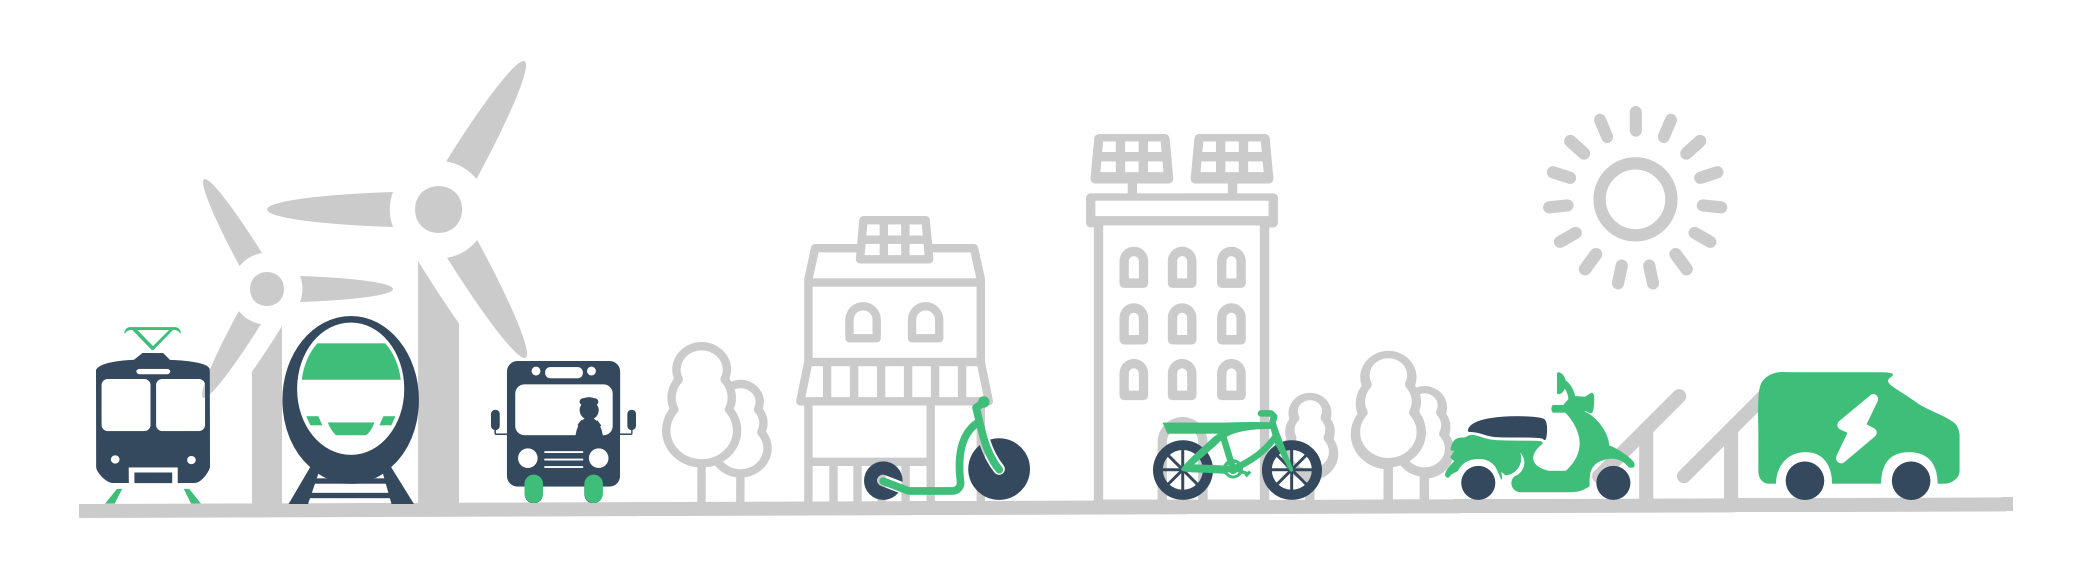
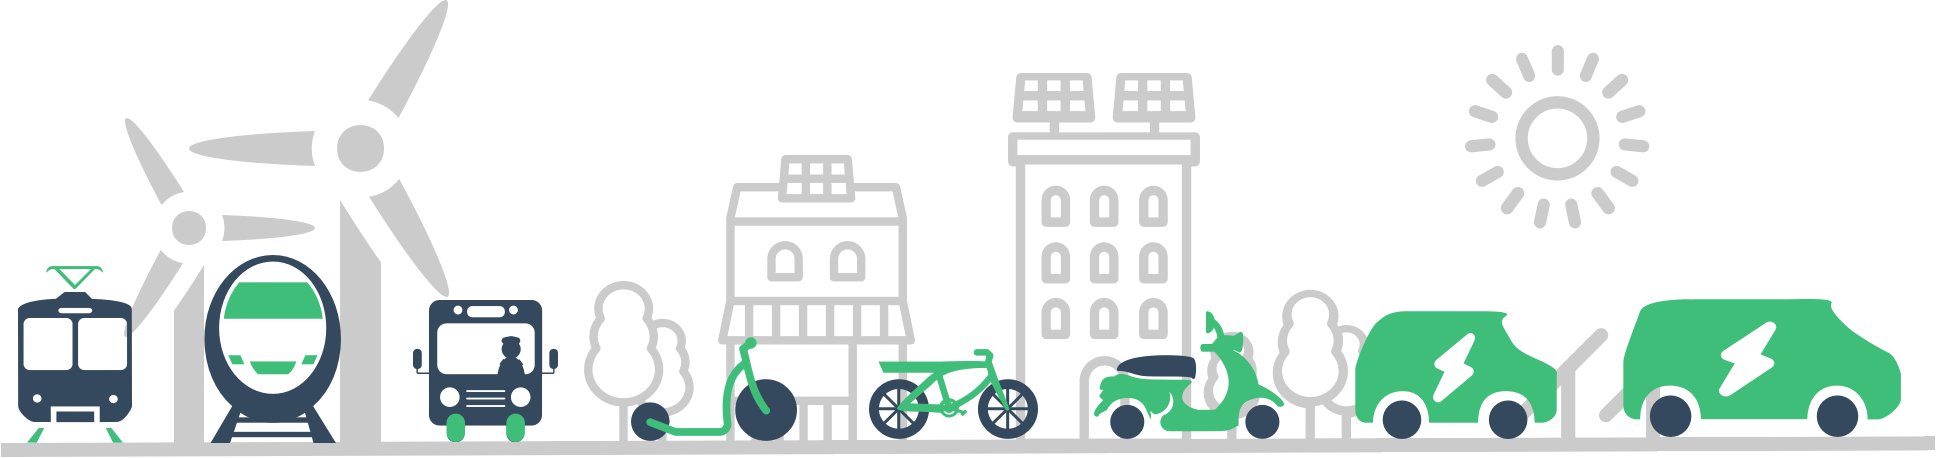
more compact and shorter pitch

Changed region(s): [[0.0, 0.0, 1.0, 1.0], [0.7128, 0.0917, 0.8678, 0.5197]]

diff --git a/components/OmoVision.vue b/components/OmoVision.vue
@@ -1,37 +1,28 @@
 <template>
   <div>
-    <!-- <div class="hero is-medium is-light">
+    <div class="hero is-medium">
       <div class="hero-body">
-        <div class="container has-text-centered">
+        <div class="has-text-centered">
           <div
             class="title is-size-1 is-size-1-tablet is-size-4-mobile"
             style="padding-bottom: 1rem"
-          >
-            THE VISION
-          </div>
+          >OUR VISION</div>
+          <img src="/banner.png" style="padding: 2rem" />
           <div
-            class="subtitle has-text-weight-medium is-size-2 is-size-4-tablet is-size-6-mobile has-text-dark"
-          >
-            jump on every
-            <b class="has-text-weight-semibold">e-bike</b>,
-            <b class="has-text-weight-semibold">e-scooter</b>,
-            <b class="has-text-weight-semibold">e-car</b> and
-            <b class="has-text-weight-semibold">any public transport</b> all
-            within one app and
-            <b class="has-text-weight-semibold">green flatrate</b>
-          </div>
+            class="subtitle has-text-weight-medium is-size-1 is-size-3-tablet is-size-5-mobile has-text-dark"
+          >leading earth into a new era of 100% sustainable sharing mobility</div>
         </div>
       </div>
-    </div>-->
-    <div class="section container">
-      <img src="/banner.png" />
     </div>
   </div>
 </template>
 
 <script lang="ts">
 import { Component, Vue } from "nuxt-property-decorator";
+import OmoVimeo from "@/components/OmoVimeo.vue";
 
-@Component({})
+@Component({
+  components: { OmoVimeo }
+})
 export default class OmoVision extends Vue {}
 </script>

diff --git a/components/OmoMission.vue b/components/OmoMission.vue
@@ -6,13 +6,10 @@
           <div
             class="title is-size-1 is-size-1-tablet is-size-4-mobile"
             style="padding-bottom: 1rem"
-          >THE MISSION</div>
+          >JOIN THE MOVEMENT</div>
           <div
             class="subtitle has-text-weight-medium is-size-2 is-size-4-tablet is-size-6-mobile has-text-dark"
-          >
-            greenfluence your city to become the global leader of a smart and
-            clean sharing movement
-          </div>
+          >and call together 1.000.000 citizens to become the leading greenfluencers of your city</div>
         </div>
       </div>
     </div>
@@ -34,18 +31,18 @@ import { Component, Vue } from "nuxt-property-decorator";
     return {
       items: [
         {
-          title: "1. GREENFLUENCE",
-          subtitle: "the vision and inspire your fellow citizens",
+          title: "1. SIGN UP",
+          subtitle: "to the movement and greenfluence your fellow citizens",
           icon: "invite"
         },
         {
-          title: "2. CROWDFUND",
-          subtitle: "and vote to unlock one mobility provider after another",
+          title: "2. PRE-BUY",
+          subtitle: "flatrate vouchers when we reach 1.000.000 greenfluencers",
           icon: "vote"
         },
         {
           title: "3. WIN",
-          subtitle: "your reward when we reach 1.000.000 pre-sales",
+          subtitle: "your rewards once we reach 1.000.000 pre-sales",
           icon: "win"
         }
       ]

diff --git a/components/OmoService.vue b/components/OmoService.vue
@@ -1,25 +1,16 @@
 <template>
   <div>
-    <div class="hero is-medium is-light">
-      <div class="hero-body">
-        <div class="has-text-centered">
-          <div
-            class="title is-size-1 is-size-1-tablet is-size-4-mobile"
-            style="padding-bottom: 1rem"
-          >
-            THE GOAL
-          </div>
-          <div
-            class="subtitle has-text-weight-medium is-size-2 is-size-4-tablet is-size-6-mobile has-text-dark"
-          >
-            enjoy the freedom to access, drive and leave any vehicle everywhere
-            in any city
-          </div>
-        </div>
+    <div class="hero is-medium">
+      <div class="section is-medium has-text-centered">
+        <div
+          class="title is-size-1 is-size-1-tablet is-size-4-mobile"
+          style="padding-bottom: 1rem"
+        >THE GOAL</div>
+        <div
+          class="subtitle has-text-weight-medium is-size-2 is-size-4-tablet is-size-6-mobile has-text-dark"
+        >enjoy the freedom to access, drive and leave any vehicle from any place in the world</div>
+        <img src="/iphone.png" width="80%" />
       </div>
-    </div>
-    <div class="section is-medium has-text-centered">
-      <img src="/iphone.png" width="80%" />
     </div>
   </div>
 </template>

diff --git a/components/OmoRewards.vue b/components/OmoRewards.vue
@@ -6,15 +6,12 @@
           <div
             class="title is-size-1 is-size-1-tablet is-size-4-mobile"
             style="padding-bottom: 1rem"
-          >GREENFLUENCER REWARDS</div>
+          >WIN GREENFLUENCER REWARDS</div>
           <div
             class="subtitle has-text-weight-medium is-size-2 is-size-4-tablet is-size-6-mobile has-text-dark"
-          >
-            when we reach 1.000.000 crowdinvestors you will unlock your
-            greenfluencer rewards *
-          </div>
-          <p div class="is-size-7">
-            *please check
+          >lifelong / 10 years / 1 year / 1 month / 1 week / 1 day FREE usage of any connected mobility sharing services *</div>
+          <p div class="is-size-6">
+            * please see
             <a href="/terms" style="color: blue">terms of service</a>
           </p>
         </div>

diff --git a/components/OmoHome.vue b/components/OmoHome.vue
@@ -16,12 +16,13 @@
         >imagine the exciting joy</h1>
 
         <div class="subtitle is-size-2 is-size-4-tablet is-size-6-mobile has-text-white">
-          of travelling any place in the world
-          by jumping on every sharing
+          of travelling the world with ease,
+          jumping on every sharing
           <br />
           <b class="has-text-weight-semibold">e-bike</b>,
           <b class="has-text-weight-semibold">e-scooter</b>,
-          <b class="has-text-weight-semibold">e-car</b> and
+          <b class="has-text-weight-semibold">e-car</b>,
+          <b class="has-text-weight-semibold">e-bus</b> and
           <b class="has-text-weight-semibold">any public transport</b>
           <br />all within
           <b class="has-text-weight-semibold">one</b> green

diff --git a/pages/index.vue b/pages/index.vue
@@ -3,10 +3,10 @@
     <OmoHome />
     <OmoVision />
     <OmoVimeo />
+    <OmoService />
     <OmoMission />
     <OmoRewards />
-    <OmoService />
-    <OmoFlatrates />
+    <!-- <OmoFlatrates /> -->
     <!-- <OmoTimeline /> -->
     <OmoWaitingList />
   </div>
@@ -23,7 +23,6 @@ import OmoService from "@/components/OmoService.vue";
 import OmoFlatrates from "@/components/OmoFlatrates.vue";
 import OmoTimeline from "@/components/OmoTimeline.vue";
 import OmoRewards from "@/components/OmoRewards.vue";
-
 import gql from "graphql-tag";
 import { mapMutations } from "vuex";
 const Cookie = process.client ? require("js-cookie") : undefined;

diff --git a/components/OmoWaitingList.vue b/components/OmoWaitingList.vue
@@ -1,6 +1,13 @@
 <template>
-  <div id="subscribe" class="section">
-    <div id="maitre-widget"></div>
+  <div id="subscribe" class="section is-medium has-text-centered">
+    <div
+      class="title is-size-1 is-size-1-tablet is-size-4-mobile"
+      style="padding-bottom: 1rem"
+    >YOUR MISSION</div>
+    <div
+      class="subtitle has-text-weight-medium is-size-2 is-size-4-tablet is-size-6-mobile has-text-dark"
+    >inspire 1.000.000 greenfluencer to bring motion.earth to life</div>
+    <div id="maitre-widget" style="padding-top: 3rem"></div>
   </div>
 </template>
 

diff --git a/components/OmoVimeo.vue b/components/OmoVimeo.vue
@@ -1,7 +1,7 @@
 <template>
   <iframe
     id="video"
-    src="https://player.vimeo.com/video/349289147"
+    src="https://player.vimeo.com/video/349313559"
     frameborder="0"
     webkitAllowFullScreen
     mozallowfullscreen
@@ -21,7 +21,7 @@ export default class OmoVimeo extends Vue {}
   display: flex;
   flex-grow: 1;
   width: 100%;
-  height: 80%;
+  height: 90%;
 }
 .vimeo iframe,
 .vimeo object,

diff --git a/layouts/OmoPanelBottom.vue b/layouts/OmoPanelBottom.vue
@@ -38,7 +38,7 @@
             class="button is-primary is-size-7-mobile is-size-6-tablet is-size-5-desktop is-rounded is-fullwidth"
             to="#subcribe"
             @click.native="scrollFix('#subscribe')"
-          >GREENFLUENCE NOW</router-link>
+          >SIGN UP NOW</router-link>
         </div>
       </div>
       <div class="column">

diff --git a/components/OmoCrowd.vue b/components/OmoCrowd.vue
@@ -3,7 +3,7 @@
     class="has-text-centered is-size-7-mobile is-size-6-tablet is-size-6-desktop has-text-light has-background-primary"
     style="padding: 0.6rem"
   >
-    <b>flatrate pre-sale kickstarts when we reach 100.000 greenfluencer</b>
+    <b>flatrate pre-sale kickstarts when we reach 1.000.000 greenfluencer</b>
   </div>
 </template>
 
